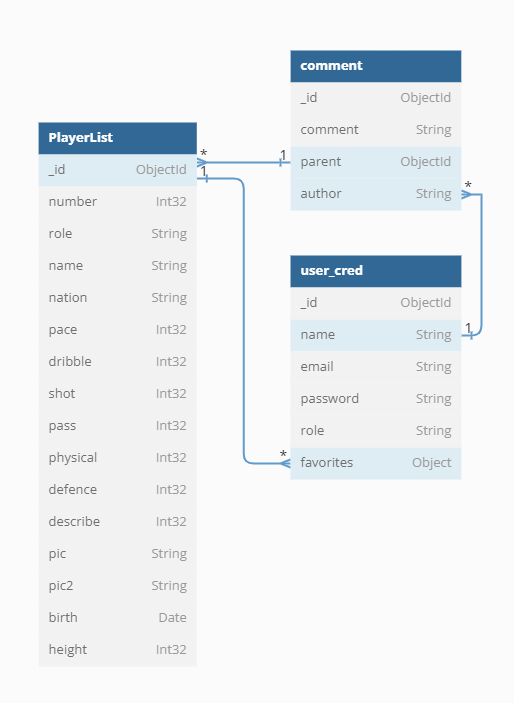
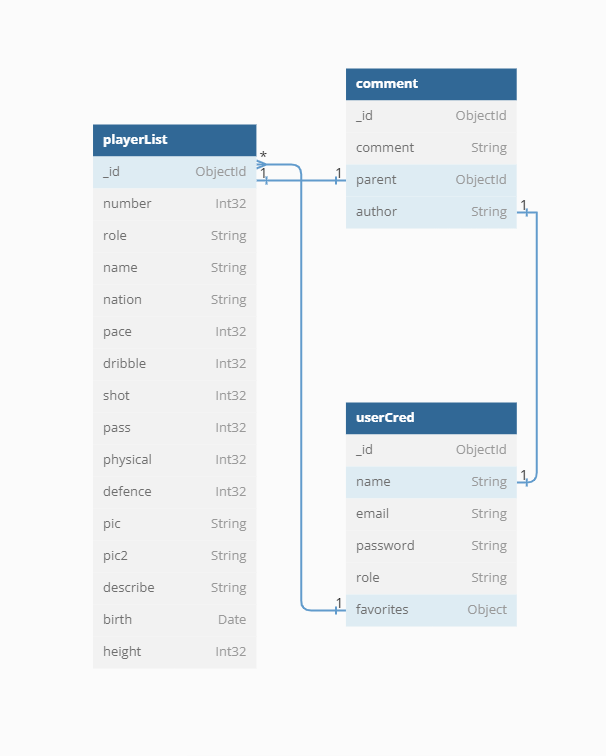
fix:error fix & edit README.md

diff --git a/pages/api/auth/signup.ts b/pages/api/auth/signup.ts
@@ -21,10 +21,10 @@ export default async function handler(
 
 			const db = (await connectDB).db("arsenal");
 			let user = await db
-				.collection("user_cred")
+				.collection("userCred")
 				.findOne({ email: req.body.email });
 			if (!user) {
-				await db.collection("user_cred").insertOne(req.body);
+				await db.collection("userCred").insertOne(req.body);
 				res.status(200).json({ message: "User created successfully" });
 			} else {
 				res.status(500).json({ error: "해당 이메일 존재합니다." });

diff --git a/pages/api/player/getPlayerList.ts b/pages/api/player/getPlayerList.ts
@@ -3,7 +3,7 @@ import { connectDB } from "@/utils/database";
 export default async function getPlayerList() {
 	const client = await connectDB;
 	const db = client.db("arsenal");
-	let playerList = await db.collection("PlayerList").find().toArray();
+	let playerList = await db.collection("playerList").find().toArray();
 	playerList = playerList.map((a: any) => {
 		a._id = a._id.toString();
 		return a;

diff --git a/app/(route)/mypage/page.tsx b/app/(route)/mypage/page.tsx
@@ -4,7 +4,7 @@ import { Metadata } from "next";
 import { getServerSession } from "next-auth";
 import Link from "next/link";
 import { title } from "@/app/_components/primitives";
-import likeList from "@/pages/api/like/likeList";
+
 import { LikeTable } from "@/app/_components/LikeTable";
 import UserInfo from "@/app/_components/UserInfo";
 export const metadata: Metadata = {

diff --git a/pages/api/like/likePlayer.ts b/pages/api/like/likePlayer.ts
@@ -12,7 +12,7 @@ export default async function likePlayer(
 		let session: any = await getServerSession(req, res, authOptions);
 		const db = (await connectDB).db("arsenal");
 		let result = await db
-			.collection("user_cred")
+			.collection("userCred")
 			.updateOne(
 				{ email: session.user.email },
 				{ $set: { favorites: req.body.favorites } },

diff --git a/pages/api/auth/[...nextauth].ts b/pages/api/auth/[...nextauth].ts
@@ -24,7 +24,7 @@ export const authOptions: any = {
 			async authorize(credentials: any): Promise<any> {
 				let db = (await connectDB).db("arsenal");
 				let user = await db
-					.collection("user_cred")
+					.collection("userCred")
 					.findOne({ email: credentials.email });
 				if (!user) {
 					console.log("해당 이메일은 없음");

diff --git a/pages/api/like/likeLists.ts b/pages/api/like/likeLists.ts
@@ -14,7 +14,7 @@ export default async function likeList(
 	let session: any = await getServerSession(req, res, authOptions);
 	if (session) {
 		let like = await db
-			.collection("user_cred")
+			.collection("userCred")
 			.findOne({ email: session.user.email });
 		let favoritesList = like?.favorites;
 		res.status(200).json(favoritesList);

diff --git a/pages/api/player/getPlayer.ts b/pages/api/player/getPlayer.ts
@@ -5,7 +5,7 @@ export default async function getPlayer(props: any) {
 	const client = await connectDB;
 	const db = client.db("arsenal");
 	let player = await db
-		.collection("PlayerList")
+		.collection("playerList")
 		.findOne({ _id: new ObjectId(props.params.id) });
 	player?._id.toString();
 	return player;

diff --git a/pages/api/auth/checkingDuplicateAccounts.ts b/pages/api/auth/checkingDuplicateAccounts.ts
@@ -9,7 +9,7 @@ export default async function handler(
 		try {
 			const db = (await connectDB).db("arsenal");
 			const user = await db
-				.collection("user_cred")
+				.collection("userCred")
 				.findOne({ email: req.body.email });
 
 			if (!user) {

diff --git a/README.md b/README.md
@@ -55,7 +55,7 @@ NEXT.js를 활용한 아스날FC 팬 페이지입니다. 여러 토이 프로젝
 
 #### 1. NextAuth를 활용한 회원가입 및 로그인&로그아웃 기능.
 
-- 회원가입, 이메일 중복검사 및 비밀번호 유효성검사를 클라이언트와 서버단에서 시행. 
+- 회원가입, 이메일 중복검사 및 비밀번호 유효성검사를 클라이언트와 서버단에서 시행.
 - API routes로 회원정보 DB에 전달.
 - NextAuth로 로그인과 로그아웃 기능 구현.
 - NextAuth를 활용한 인가 페이지(마이페이지) 구현
@@ -68,7 +68,7 @@ NEXT.js를 활용한 아스날FC 팬 페이지입니다. 여러 토이 프로젝
 #### 3. 선수 상세 정보 출력 및 선수당 댓글 출력,작성,수정,삭제기능 구현.
 
 - 데이터의 변화가 적은 선수 정보,로그인은 NEXT.js에서 직접 데이터 페칭
-- 각 선수별 댓글,즐겨찾기와 기능은 server state로 관리하기 위해 TanstackQuery를 활용하여 데이터페칭.
+- 각 선수별 댓글,즐겨찾기와 같은 개인화된 기능은 client-side에서 관리하기 위해 TanstackQuery를 활용하여 데이터페칭.
 - 댓글 및 즐겨찾기 기능은 NextAuth로 인가 받지 못하면 기능 사용 불가.
 
 #### 4. Recharts를 활용한 선수간 스탯 비교 기능 구현
@@ -99,9 +99,8 @@ TanstackQuery와 Next.js의 서버 컴포넌트를 나누게된 이유는 개인
 
 #### 1-1) TanstackQuery
 
-개인화된 요청은 서버에 캐싱되면 안됩니다.그래서 fetch를 사용할 때 no-store 옵션을 설정하여 사용하는 방법도 고려했지만
-이 경우, 
-- 새로고침 및 라우트 캐시가 만료될 때 마다 API 호출이 발생한다는 단점이 발생했습니다.
+이 프로젝트에서 즐겨찾기와 같은 개인화된 요청이 있습니다.개인화된 요청은 서버에 캐싱되면 안됩니다.그래서 fetch를 사용할 때 no-store 옵션을 설정하여 사용하는 방법도 고려했지만
+이 경우, 새로고침 및 라우트 캐시가 만료될 때 마다 API 호출이 발생한다는 단점이 발생했습니다.
 
 그래서 client-side에서 tanstack-query를 사용하여 브라우저 메모리에 개인화된 요청에 대한 응답을 캐시 하고 queryKey와 staleTime으로 캐시를 관리하는 방법을 사용했습니다.
 또한 개인화된 요청의 경우 검색 엔진에 노출될 필요가 없으므로 SEO를 고려하지않고 client-side에서 tanstack-query로 요청 후 캐시를 관리하였습니다.
